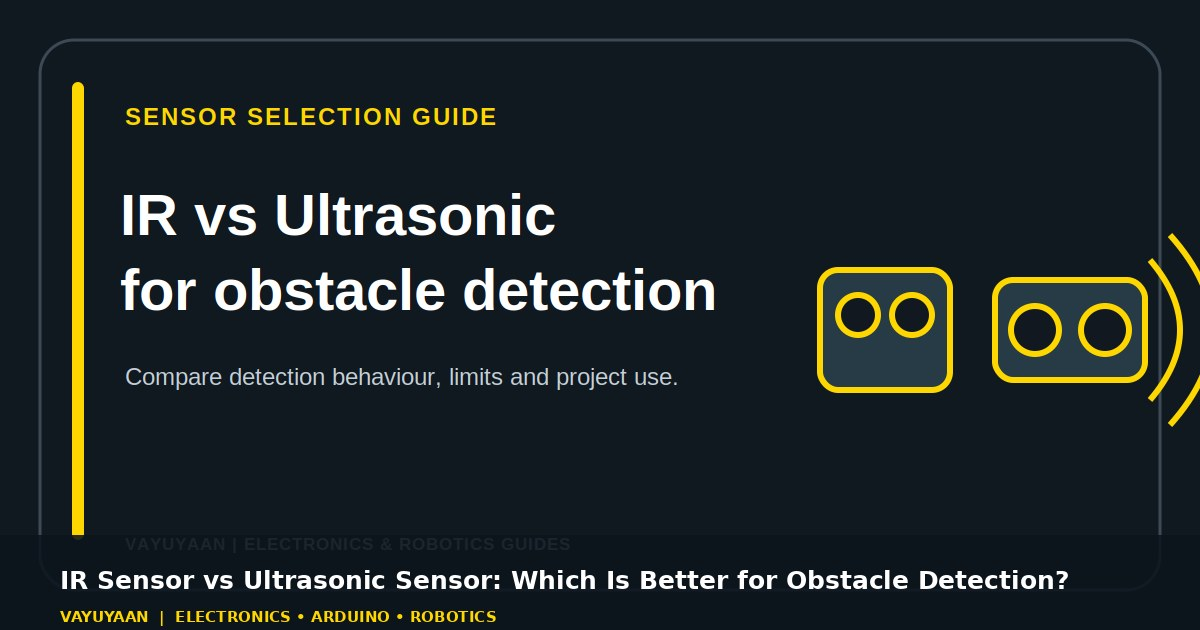
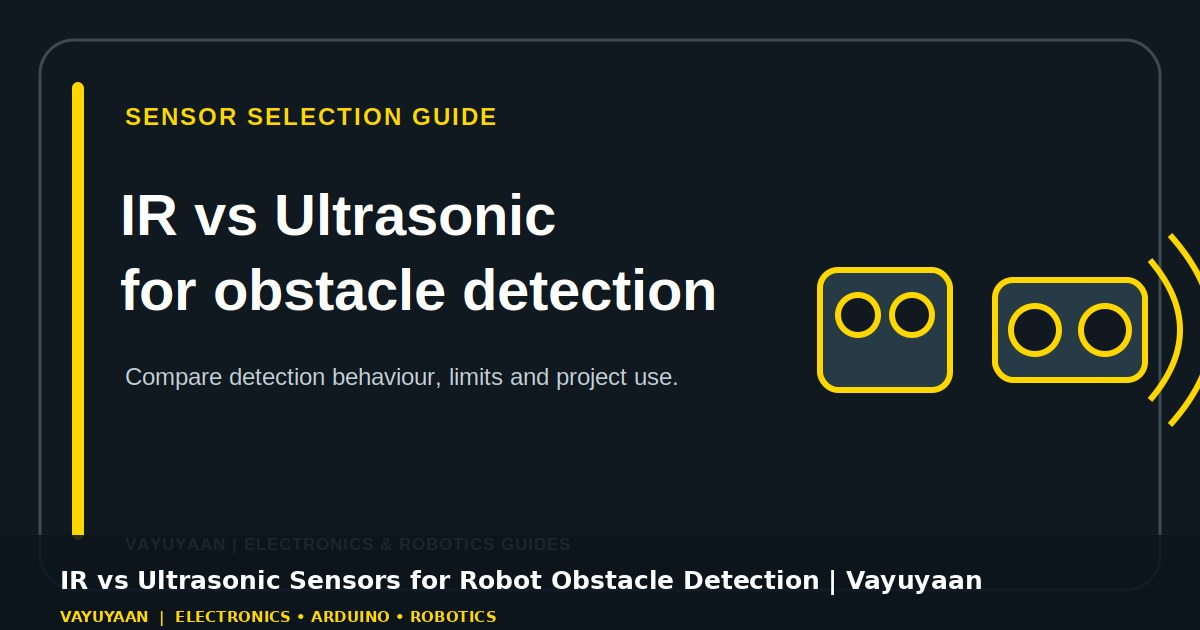
Publish Arduino Uno sensor interfacing guide (#56)
* Add Arduino Uno sensor interfacing practical guide

* Add original Arduino sensor wiring diagrams

* Add original Arduino sensor wiring diagrams

* Link sensor interfacing guide from Arduino hub

* Add Arduino sensor interfacing page to sitemap

* Add social metadata and accessible mobile menu handling

* Generate dedicated social card for Arduino sensor guide

* Run social card generator for new article branch

* Trigger dedicated social preview generation

* Generate raster social preview cards for all pages

---------

Changed region(s): [[0.0617, 0.9048, 0.8942, 0.9349]]

diff --git a/arduino-uno-sensor-interfacing/index.html b/arduino-uno-sensor-interfacing/index.html
@@ -1,0 +1,158 @@
+<!doctype html>
+<html lang="en-IN">
+<head>
+<meta charset="utf-8"><meta name="viewport" content="width=device-width,initial-scale=1">
+<title>Arduino Uno Sensor Interfacing: Pins, Wiring &amp; Code | Vayuyaan</title>
+<meta name="description" content="Learn Arduino Uno sensor interfacing with analog and digital pins, PWM, LDR, IR and HC-SR04 wiring, example code and practical troubleshooting.">
+<link rel="canonical" href="https://vayuyaan13.github.io/vayuyaan/arduino-uno-sensor-interfacing/">
+<meta name="robots" content="index,follow,max-image-preview:large,max-snippet:-1,max-video-preview:-1">
+<meta property="og:locale" content="en_IN"><meta property="og:site_name" content="Vayuyaan Electronics &amp; Robotics Guides"><meta property="og:type" content="article">
+<meta property="og:title" content="Arduino Uno Sensor Interfacing: Pins, Wiring &amp; Code"><meta property="og:description" content="Connect analog and digital sensors to Arduino Uno. Understand pin selection, voltage limits, PWM, wiring examples and troubleshooting.">
+<meta property="og:url" content="https://vayuyaan13.github.io/vayuyaan/arduino-uno-sensor-interfacing/"><meta property="og:image" content="https://vayuyaan13.github.io/vayuyaan/assets/social/arduino-uno-sensor-interfacing.jpg">
+<meta property="og:image:type" content="image/jpeg">
+<meta property="og:image:width" content="1200">
+<meta property="og:image:height" content="630">
+<meta property="og:image:alt" content="Arduino Uno Sensor Interfacing: Pins, Wiring &amp; Code | Vayuyaan">
+<meta name="twitter:card" content="summary_large_image"><meta name="twitter:title" content="Arduino Uno Sensor Interfacing: Pins, Wiring &amp; Code"><meta name="twitter:description" content="Practical Arduino Uno sensor wiring, pin selection, example code and troubleshooting."><meta name="twitter:image" content="https://vayuyaan13.github.io/vayuyaan/assets/social/arduino-uno-sensor-interfacing.jpg">
+<link rel="stylesheet" href="../style.css?v=20261120-sensor-interface">
+<style>
+.article-shell{max-width:1160px;margin:auto;padding:28px 28px 80px}.crumb{font-size:.82rem;color:#74808a;margin:8px 0 32px}.crumb a{color:#66727c}.article-head{max-width:900px;margin:0 auto 34px;border-bottom:1px solid #e4e8eb;padding-bottom:28px}.eyebrow{font-size:.72rem;letter-spacing:.14em;font-weight:800;color:#8a6800}.article-head h1{font-size:clamp(2.35rem,5vw,4rem);line-height:1.06;letter-spacing:-.05em;margin:14px 0 18px}.deck{font-size:1.15rem;line-height:1.75;color:#56636e;max-width:820px}.byline{font-size:.82rem;color:#7c8790;margin-top:18px}.layout{display:grid;grid-template-columns:205px minmax(0,760px);gap:48px;justify-content:center}.toc{position:sticky;top:100px;align-self:start;border-left:2px solid #e2e7ea;padding:4px 0 4px 16px;display:flex;flex-direction:column;gap:10px}.toc strong{font-size:.68rem;letter-spacing:.12em;color:#818b94}.toc a{font-size:.82rem;color:#68747e;text-decoration:none;line-height:1.4}.body{min-width:0;font-size:1.02rem;line-height:1.82;color:#303b44}.body p{margin:0 0 19px}.body a{color:#765800;text-underline-offset:3px}.body h2{font-size:clamp(1.55rem,3vw,2.1rem);line-height:1.2;letter-spacing:-.03em;margin:44px 0 14px;scroll-margin-top:100px}.body h3{font-size:1.15rem;margin:26px 0 8px}.body ul,.body ol{padding-left:24px;margin:0 0 22px}.body li{margin:0 0 8px}.lead{font-size:1.13rem;color:#202b33}.note{background:#fff8e2;border-left:4px solid #ffd23f;padding:18px 21px;margin:24px 0;border-radius:0 8px 8px 0}.figure{margin:25px 0 30px}.figure img{display:block;width:100%;height:auto;border:1px solid #e1e6ea;border-radius:12px;background:#f8fafb}.figure figcaption{font-size:.8rem;color:#77828b;text-align:center;margin-top:8px}.table-wrap{overflow-x:auto;margin:20px 0 26px}.body table{border-collapse:collapse;width:100%;min-width:570px;font-size:.87rem;line-height:1.55}.body th,.body td{border:1px solid #e1e6e9;padding:11px;text-align:left;vertical-align:top}.body th{background:#f3f6f7}.body pre{overflow-x:auto;white-space:pre;padding:17px;background:#111a22;color:#f5f7f8;border-radius:9px;font: .84rem/1.65 ui-monospace,Consolas,monospace;margin:15px 0 23px}.body code{font-family:ui-monospace,Consolas,monospace;font-size:.9em}.body pre code{font-size:1em}.cta{background:#111820;color:#fff;padding:25px;border-radius:11px;margin:42px 0 26px}.cta h2{color:#fff;margin:7px 0 10px}.cta p{color:#c8d0d5}.cta a{display:inline-block;background:#ffd23f;color:#111820;padding:11px 15px;border-radius:6px;font-weight:800;text-decoration:none}.sources{border-top:1px solid #e3e8eb;padding-top:18px;margin-top:34px;font-size:.82rem;color:#66727c}
+@media(max-width:820px){.layout{grid-template-columns:1fr;gap:22px}.toc{position:static;border:1px solid #e2e7ea;border-radius:9px;padding:15px;display:grid;grid-template-columns:repeat(2,minmax(0,1fr))}.toc strong{grid-column:1/-1}}
+@media(max-width:560px){.article-shell{padding:20px 19px 58px}.article-head h1{font-size:2.35rem}.deck{font-size:1.02rem}.body{font-size:.98rem}.body pre{font-size:.76rem}.body table{font-size:.78rem}.body th,.body td{padding:8px}}
+</style>
+<script type="application/ld+json">
+{"@context":"https://schema.org","@graph":[{"@type":"BlogPosting","@id":"https://vayuyaan13.github.io/vayuyaan/arduino-uno-sensor-interfacing/#article","mainEntityOfPage":{"@type":"WebPage","@id":"https://vayuyaan13.github.io/vayuyaan/arduino-uno-sensor-interfacing/"},"headline":"Arduino Uno Sensor Interfacing: Analog, Digital and PWM Pins Explained","description":"A practical guide to choosing Arduino Uno pins, connecting analog and digital sensors, using PWM correctly and troubleshooting sensor circuits.","image":"https://vayuyaan13.github.io/vayuyaan/assets/arduino-uno-sensor-interfacing-overview.svg","datePublished":"2026-11-20","dateModified":"2026-11-20","author":{"@type":"Organization","name":"Vayuyaan Editorial Team"},"publisher":{"@type":"Organization","name":"Vayuyaan","logo":{"@type":"ImageObject","url":"https://vayuyaan13.github.io/vayuyaan/assets/vayuyaan-logo.png"}},"inLanguage":"en-IN","articleSection":["Arduino","Sensors","Electronics"],"keywords":["Arduino Uno sensor interfacing","Arduino analog pins","Arduino digital pins","Arduino PWM pins","connect sensor to Arduino Uno","Arduino LDR sensor","Arduino IR sensor","HC-SR04 Arduino wiring"]},{"@type":"BreadcrumbList","itemListElement":[{"@type":"ListItem","position":1,"name":"Home","item":"https://vayuyaan13.github.io/vayuyaan/"},{"@type":"ListItem","position":2,"name":"Arduino Guides","item":"https://vayuyaan13.github.io/vayuyaan/arduino/"},{"@type":"ListItem","position":3,"name":"Arduino Uno Sensor Interfacing","item":"https://vayuyaan13.github.io/vayuyaan/arduino-uno-sensor-interfacing/"}]}]}
+</script>
+</head>
+<body>
+<a class="skip-link" href="#main-content">Skip to main content</a>
+<header class="header"><nav class="nav"><a class="brand" href="../" aria-label="Vayuyaan learning hub home"><img src="../assets/vayuyaan-logo.png" alt="Vayuyaan logo" width="394" height="109"></a><div class="navlinks" id="primary-navigation"><a href="../">Home</a><a href="../arduino/">Arduino Guides</a><a href="../sensors/">Sensor Guides</a><a href="../robotics/">Robotics</a><a href="https://vayuyaan.com/blog/">Electronics Blog</a><a href="https://vayuyaan.com/">Vayuyaan.com ↗</a></div><button class="menu" type="button" aria-label="Open navigation menu" aria-expanded="false" aria-controls="primary-navigation">☰</button></nav></header>
+<main id="main-content" class="article-shell">
+<div class="crumb"><a href="../">Home</a> / <a href="../arduino/">Arduino</a> / Sensor interfacing</div>
+<header class="article-head"><span class="eyebrow">ARDUINO · PRACTICAL WIRING GUIDE</span><h1>Arduino Uno R3 Sensor Interfacing: Analog, Digital and PWM Pins Explained</h1><p class="deck">Choose the right Arduino Uno pin, connect sensor modules safely, read their outputs and diagnose common wiring mistakes with practical LDR, IR and HC-SR04 examples.</p><p class="byline">By Vayuyaan Editorial Team · 20 November 2026 · Practical reference guide</p></header>
+<div class="layout">
+<nav class="toc" aria-label="Table of contents"><strong>IN THIS GUIDE</strong><a href="#before">Before connecting</a><a href="#pins">Understand the pins</a><a href="#wiring">Wiring principles</a><a href="#ldr">LDR example</a><a href="#ir">IR module example</a><a href="#ultrasonic">HC-SR04 example</a><a href="#pwm">PWM explained</a><a href="#debug">Troubleshooting</a><a href="#faq">FAQs</a></nav>
+<article class="body">
+<p class="lead">Connecting a sensor to an Arduino Uno is not just a matter of matching wire colours. First identify what the module outputs—an analogue voltage, a digital HIGH/LOW signal, or a timed pulse. Then choose a compatible pin and check the module's supply-voltage requirements.</p>
+<p>If you are new to the board, start with the <a href="https://vayuyaan.com/blog/arduino-uno-r3-complete-guide-for-beginners/">Arduino Uno R3 pinout and beginner's guide</a> for the board layout and basic setup. This page focuses on the next step: connecting sensors and interpreting their signals correctly.</p>
+<figure class="figure"><img src="../assets/arduino-uno-sensor-interfacing-overview.svg" width="1200" height="675" alt="Arduino Uno sensor interfacing overview showing an analogue LDR input on A0, a digital IR output on D2 and HC-SR04 trigger and echo on D9 and D10"><figcaption>Three common signal paths: analogue input, digital input and two digital pins for ultrasonic timing.</figcaption></figure>
+<h2 id="before">Before connecting a sensor</h2>
+<p>Read the label or datasheet for the exact sensor board. Modules that look similar can use different pin orders, supply ranges and output circuits. Check these points before applying power:</p>
+<ul><li><strong>Supply voltage:</strong> confirm whether the module accepts 5 V, 3.3 V or a wider range. Never assume every sensor board is 5 V tolerant.</li><li><strong>Output type:</strong> determine whether the signal is analogue, digital, open-collector/open-drain or a pulse whose duration carries information.</li><li><strong>Logic level:</strong> check the maximum voltage that can appear on an Uno input. A 3.3 V-only device may need level shifting for signals in both directions; a 5 V Uno output can damage a non-5-V-tolerant input.</li><li><strong>Current:</strong> power the sensor from a suitable supply. Do not drive motors, relays or high-current loads directly from an I/O pin.</li><li><strong>Ground:</strong> when using separate supplies, connect grounds together unless the circuit is intentionally isolated.</li></ul>
+<div class="note"><strong>Important:</strong> The classic Arduino Uno R3 uses 5 V logic and a 10-bit ADC. These details do not apply automatically to every Arduino-compatible board, especially 3.3 V boards.</div>
+<h2 id="pins">Arduino Uno pins: which one should you use?</h2>
+<p>The classic Uno R3 has 14 digital I/O pins (D0–D13), six analogue input pins (A0–A5) and six PWM-capable digital pins (3, 5, 6, 9, 10 and 11). Analogue pins can also be used as digital I/O when needed.</p>
+<div class="table-wrap"><table><thead><tr><th>Pin group</th><th>What it does</th><th>Typical sensor use</th><th>Key point</th></tr></thead><tbody><tr><td>A0–A5</td><td>Measures analogue voltage through the ADC</td><td>LDR voltage divider, analogue gas or light module</td><td><code>analogRead()</code> returns 0–1023 at the default 10-bit resolution</td></tr><tr><td>D0–D13</td><td>Reads or outputs digital HIGH/LOW states</td><td>IR obstacle module's digital output</td><td>D0/D1 are also used for serial communication; avoid them when using USB serial unless planned</td></tr><tr><td>D3, D5, D6, D9, D10, D11</td><td>Hardware PWM output using <code>analogWrite()</code></td><td>LED brightness or compatible driver speed input</td><td>PWM is a rapidly switched digital signal, not a true analogue voltage</td></tr><tr><td>5V, 3.3V, GND</td><td>Power and reference connections</td><td>Sensor module supply</td><td>Check the module's rated supply and current before connecting</td></tr></tbody></table></div>
+<p>On a standard Uno R3, the analogue-to-digital converter maps the selected input voltage to a number from 0 to 1023. With the default 5 V reference, a reading of about 512 represents roughly half the reference voltage (about 2.5 V). It is not a direct measurement of lux, temperature or another physical unit; calibration and the sensor's circuit determine how to interpret it.</p>
+<h2 id="wiring">A safe, repeatable sensor-wiring method</h2>
+<ol><li>Disconnect USB and external power before changing connections.</li><li>Find the exact module pin labels or datasheet. Identify VCC, GND and signal pins.</li><li>Connect the module to a supply voltage it supports. Connect GND to Arduino GND.</li><li>Connect the signal to a suitable input pin. Keep signal wires short while testing.</li><li>Power the board and test one sensor with a small sketch before adding other components.</li><li>Open Serial Monitor at the baud rate used by the sketch and compare readings while changing the sensor input.</li></ol>
+<figure class="figure"><img src="../assets/arduino-uno-sensor-wiring-map.svg" width="1200" height="660" alt="Sensor wiring map for Arduino Uno showing shared ground and separate analog, digital and trigger echo signal connections"><figcaption>Conceptual wiring map. Follow the pin labels on your exact module; connector order varies by manufacturer.</figcaption></figure>
+<h2 id="ldr">Example 1: read an LDR using analogue input A0</h2>
+<p>A bare light-dependent resistor (LDR) changes resistance with light. The Arduino cannot measure resistance directly, so pair the LDR with a fixed resistor to make a voltage divider. In this example, connect 5 V to the LDR, the junction to A0, and a 10 kΩ resistor from the junction to GND. The voltage at A0 rises as the LDR becomes brighter because its resistance falls.</p>
+<div class="table-wrap"><table><thead><tr><th>Connection</th><th>Arduino / component</th></tr></thead><tbody><tr><td>LDR first leg</td><td>5V</td></tr><tr><td>LDR second leg and fixed resistor first leg</td><td>A0 junction</td></tr><tr><td>10 kΩ resistor second leg</td><td>GND</td></tr></tbody></table></div>
+<pre><code>const int ldrPin = A0;
+
+void setup() {
+  Serial.begin(9600);
+}
+
+void loop() {
+  int reading = analogRead(ldrPin);
+  float voltage = reading * (5.0 / 1023.0);
+
+  Serial.print("ADC: ");
+  Serial.print(reading);
+  Serial.print(" | Approx. voltage: ");
+  Serial.println(voltage, 2);
+
+  delay(250);
+}</code></pre>
+<p>Open Serial Monitor, note the reading in bright and dim conditions, and use those measured values to choose a threshold for your project. The voltage calculation assumes the default 5 V analogue reference; actual board voltage and ADC characteristics introduce small differences. The ADC number is not a lux value.</p>
+<p>For the sensor's resistance behaviour and other applications, see the main-site <a href="https://vayuyaan.com/blog/what-is-ldr-sensor/">LDR sensor working principle and applications</a> guide. Keep the voltage-divider circuit and project calibration in this practical article.</p>
+<h2 id="ir">Example 2: read a digital IR obstacle module</h2>
+<p>Many reflective IR obstacle modules include an onboard comparator and a small potentiometer. Their digital output changes state when the reflected infrared signal crosses the module's threshold. The active state is not universal: some boards output LOW when an obstacle is detected, while others behave differently. Check the module documentation or observe its indicator LED and serial output.</p>
+<div class="table-wrap"><table><thead><tr><th>Module pin</th><th>Arduino Uno</th></tr></thead><tbody><tr><td>VCC</td><td>Supply accepted by the module (verify its rating)</td></tr><tr><td>GND</td><td>GND</td></tr><tr><td>DO / OUT</td><td>D2</td></tr></tbody></table></div>
+<pre><code>const int irPin = 2;
+
+void setup() {
+  pinMode(irPin, INPUT);
+  Serial.begin(9600);
+}
+
+void loop() {
+  int state = digitalRead(irPin);
+
+  Serial.print("IR output: ");
+  Serial.println(state == HIGH ? "HIGH" : "LOW");
+
+  delay(100);
+}</code></pre>
+<p>This sketch reports the electrical output only; it deliberately does not label HIGH or LOW as “obstacle detected” because module polarity varies. Once you confirm your board's active state, add that logic to your project. Adjust the potentiometer in small steps and test with the actual target surface and distance.</p>
+<h2 id="ultrasonic">Example 3: connect an HC-SR04 ultrasonic sensor</h2>
+<p>The HC-SR04 uses two digital signal pins. The Arduino sends a short trigger pulse; the sensor returns an echo pulse whose duration represents the sound's round-trip travel time. The commonly used conversion is duration × 0.0343 ÷ 2 for an approximate distance in centimetres at around room temperature.</p>
+<div class="table-wrap"><table><thead><tr><th>HC-SR04 pin</th><th>Arduino Uno</th></tr></thead><tbody><tr><td>VCC</td><td>5V (for a standard 5 V HC-SR04 module)</td></tr><tr><td>GND</td><td>GND</td></tr><tr><td>TRIG</td><td>D9</td></tr><tr><td>ECHO</td><td>D10</td></tr></tbody></table></div>
+<pre><code>const byte trigPin = 9;
+const byte echoPin = 10;
+
+void setup() {
+  pinMode(trigPin, OUTPUT);
+  pinMode(echoPin, INPUT);
+  Serial.begin(9600);
+}
+
+void loop() {
+  digitalWrite(trigPin, LOW);
+  delayMicroseconds(2);
+  digitalWrite(trigPin, HIGH);
+  delayMicroseconds(10);
+  digitalWrite(trigPin, LOW);
+
+  // Timeout prevents waiting indefinitely (30 ms ≈ 5 m round trip).
+  unsigned long duration = pulseIn(echoPin, HIGH, 30000UL);
+
+  if (duration == 0) {
+    Serial.println("No echo: check target, wiring and range");
+  } else {
+    float distanceCm = duration * 0.0343 / 2.0;
+    Serial.print("Distance: ");
+    Serial.print(distanceCm, 1);
+    Serial.println(" cm");
+  }
+
+  delay(100);
+}</code></pre>
+<p>The timeout is a guard against a missing echo, not a promise that the sensor measures accurately to five metres. The usable range depends on the module, target size and angle, surface, surroundings and environmental conditions. Avoid treating a zero reading as a real distance. For pinout details and common faults, use the dedicated <a href="../hc-sr04-ultrasonic-sensor-guide/">HC-SR04 wiring and Arduino code guide</a> and <a href="../hc-sr04-wrong-readings-arduino/">HC-SR04 troubleshooting guide</a>.</p>
+<h2 id="pwm">PWM pins: what they can and cannot do</h2>
+<p>On the classic Uno R3, <code>analogWrite()</code> on pins 3, 5, 6, 9, 10 or 11 produces pulse-width modulation (PWM). The output switches between LOW and HIGH; changing the duty cycle changes the average energy delivered to a suitable load. It does not create a steady, adjustable analogue voltage from the pin.</p>
+<pre><code>const byte ledPin = 9;
+
+void setup() {
+  pinMode(ledPin, OUTPUT);
+}
+
+void loop() {
+  for (int level = 0; level <= 255; level++) {
+    analogWrite(ledPin, level);
+    delay(8);
+  }
+
+  for (int level = 255; level >= 0; level--) {
+    analogWrite(ledPin, level);
+    delay(8);
+  }
+}</code></pre>
+<p>Use a suitable series resistor with a bare LED. For motors, use a motor driver rated for the motor's voltage and current; never connect a motor directly to an Arduino I/O pin. PWM pin availability and timer behaviour can differ on other boards, and some libraries use hardware timers that affect PWM on particular pins.</p>
+<h2 id="debug">Sensor not working? Check these common causes</h2>
+<div class="table-wrap"><table><thead><tr><th>Symptom</th><th>What to check</th></tr></thead><tbody><tr><td>Always reads 0 or 1023</td><td>Check the analogue divider path, signal pin, common ground and whether the input is floating or shorted to a rail.</td></tr><tr><td>IR output seems inverted</td><td>Confirm the module's active-LOW or active-HIGH behaviour; do not assume polarity.</td></tr><tr><td>HC-SR04 returns zero</td><td>Check TRIG/ECHO pin assignments, 5 V supply, ground, target angle and timeout. Test a large flat target at a sensible distance.</td></tr><tr><td>Values jump around</td><td>Inspect loose jumper wires, supply stability, electrical noise and sensor-specific filtering or averaging needs.</td></tr><tr><td>Board resets when a motor starts</td><td>Use a properly rated motor driver and suitable motor supply; check wiring and shared ground. Do not power the motor from an I/O pin.</td></tr><tr><td>Sensor gets hot or stops responding</td><td>Disconnect power immediately and recheck polarity, voltage rating and wiring against the module datasheet.</td></tr></tbody></table></div>
+<h2 id="faq">Frequently asked questions</h2>
+<h3>Can I connect multiple sensors to one Arduino Uno?</h3><p>Yes, if enough suitable pins remain and the combined current draw stays within the board and supply limits. Check pin conflicts, libraries and timing requirements before combining sketches.</p>
+<h3>Can I use an analogue sensor on a digital pin?</h3><p>Not if you need its changing analogue voltage. Use A0–A5 with <code>analogRead()</code>. Some modules also provide a separate digital threshold output that can be read with <code>digitalRead()</code>.</p>
+<h3>Are all Arduino Uno pins 5 V tolerant?</h3><p>The classic Uno R3 uses 5 V logic, but this does not make every attached sensor safe at 5 V. Follow the sensor's supply and input/output voltage specifications. Other Uno-branded or compatible boards may use different logic levels.</p>
+<h3>Is PWM the same as analogue output?</h3><p>No. PWM is a switched digital waveform. A load or filter may respond to its average, but the pin itself is not producing a true continuously variable analogue voltage.</p>
+<div class="cta"><span class="eyebrow">CONTINUE LEARNING</span><h2>Choose the right board, sensor and components</h2><p>Use the Arduino Uno overview for board fundamentals, then return here when you are ready to wire and test a sensor.</p><a href="https://vayuyaan.com/blog/arduino-uno-r3-complete-guide-for-beginners/">Read the Arduino Uno R3 beginner's guide ↗</a></div>
+<p class="sources"><strong>Technical references:</strong> <a href="https://docs.arduino.cc/hardware/uno-rev3/">Arduino Uno Rev3 hardware documentation</a>; <a href="https://docs.arduino.cc/language-reference/en/functions/analog-io/analogRead/">Arduino analogRead() reference</a>; <a href="https://docs.arduino.cc/language-reference/en/functions/analog-io/analogWrite/">Arduino analogWrite() reference</a>; <a href="https://docs.arduino.cc/language-reference/en/functions/advanced-io/pulseIn/">Arduino pulseIn() reference</a>. Confirm module-specific pinouts and electrical ratings using the datasheet supplied by its manufacturer.</p>
+</article></div></main>
+<footer class="site-footer"><div class="footer-about"><a class="footer-logo" href="../"><img src="../assets/vayuyaan-logo.png" alt="Vayuyaan logo" width="394" height="109"></a><p>Practical electronics, Arduino, ESP32 and robotics learning resources.</p><p>Email: <a href="mailto:support@vayuyaan.com">support@vayuyaan.com</a></p></div><div class="footer-column"><h2>Explore</h2><a href="../arduino/">Arduino guides</a><a href="../sensors/">Sensor guides</a><a href="../robotics/">Robotics projects</a><a href="../what-is-esp32/">ESP32 guides</a></div><div class="footer-column"><h2>Vayuyaan</h2><a href="https://vayuyaan.com/blog/">Electronics blog</a><a href="https://vayuyaan.com/shop/">Shop components</a><a href="https://vayuyaan.com/">Main website</a></div></footer>
+<div class="footer-bottom"><span>© 2026 Vayuyaan. All rights reserved.</span><span>Electronics • Robotics • DIY</span></div>
+<script>(()=>{const b=document.querySelector('.menu'),n=document.querySelector('.navlinks');if(b&&n){const close=()=>{n.classList.remove('mobile-open');b.setAttribute('aria-expanded','false');b.setAttribute('aria-label','Open navigation menu')};b.addEventListener('click',()=>{const o=n.classList.toggle('mobile-open');b.setAttribute('aria-expanded',String(o));b.setAttribute('aria-label',o?'Close navigation menu':'Open navigation menu')});n.querySelectorAll('a').forEach(a=>a.addEventListener('click',close));document.addEventListener('keydown',e=>{if(e.key==='Escape'&&n.classList.contains('mobile-open')){close();b.focus()}})}})();</script>
+</body></html>

diff --git a/arduino/index.html b/arduino/index.html
@@ -22,6 +22,10 @@
 
 
 
+
+
+
+
 <meta name="twitter:card" content="summary_large_image"><meta name="twitter:title" content="Arduino Uno Guides & Beginner Projects | Vayuyaan"><meta name="twitter:description" content="Learn Arduino Uno fundamentals, sensors, motor drivers and beginner robotics with practical step-by-step guides."><meta name="twitter:image" content="https://vayuyaan13.github.io/vayuyaan/assets/social/arduino.jpg"><meta property="og:url" content="https://vayuyaan13.github.io/vayuyaan/arduino/"><link rel="stylesheet" href="../style.css?v=20261118-mobile2"><style>.arduino-visual{max-width:1160px;margin:0 auto;padding:0 28px 12px}.arduino-visual img{display:block;width:100%;height:auto;border-radius:18px;border:1px solid #e0e6eb}.roadmap-visual{margin:0 0 28px}.roadmap-visual img{display:block;width:100%;height:auto;border-radius:16px;border:1px solid #e0e6eb}.guide .guide-tag{display:inline-block;font-size:.7rem;letter-spacing:.08em;text-transform:uppercase;font-weight:800;color:#8b6700;margin-bottom:8px}.guide-grid .guide{height:100%}.path-note{margin:20px 0 0;padding:18px 20px;border-radius:10px;background:#fff8df;border-left:4px solid #ffd23f;color:#3b4147;line-height:1.7}.path-note a{font-weight:700}.section .section-top{scroll-margin-top:90px}@media(max-width:600px){.arduino-visual{padding:0 18px 8px}.roadmap-visual{margin-bottom:20px}}</style><script type="application/ld+json">
 {
   "@context": "https://schema.org",
@@ -78,7 +82,7 @@
 <a class="brand" href="../" aria-label="Vayuyaan learning hub home"><img src="../assets/vayuyaan-logo.png" alt="Vayuyaan logo" width="394" height="109"></a>
 <div class="navlinks" id="primary-navigation"><a href="../">Home</a><a href="../write-for-us/" >Write for Us</a><a href="../arduino/" aria-current="page">Arduino Guides</a><a href="../sensors/" >Sensor Guides</a><a href="../robotics/" >Robotics Projects</a><a href="../motor-drivers/" >Motor Drivers</a><a href="../what-is-esp32/" >ESP32</a><a href="https://vayuyaan.com/blog/">Electronics Blog</a><a href="https://vayuyaan.com/shop/">Shop Components</a><a class="nav-cta" href="https://vayuyaan.com/">Vayuyaan.com ↗</a></div>
 <button class="menu" type="button" aria-label="Open navigation menu" aria-expanded="false" aria-controls="primary-navigation">☰</button>
-</nav></header><main id="main-content"><section class="hero"><div class="hero-inner"><div class="hero-copy"><div class="pill"><span></span> Arduino Learning Hub</div><h1>Learn Arduino.<br><em>Build real projects.</em></h1><p>Start with the Arduino Uno, then learn sensors, motor drivers and practical robotics step by step.</p><div class="hero-actions"><a class="primary" href="https://vayuyaan.com/blog/arduino-uno-r3-complete-guide-for-beginners/">Start with Arduino Uno →</a><a class="secondary" href="#guides">Explore guides</a></div></div></div></section><section class="arduino-visual" aria-label="Arduino beginner project illustration"><img src="../assets/arduino-learning-workspace.svg" alt="Illustration of an Arduino development board, breadboard, wires and electronic components for beginner projects" width="1200" height="650" fetchpriority="high" decoding="async"></section><section class="section"><div class="section-top"><div><span class="kicker">A PRACTICAL LEARNING PATH</span><h2>Learn in this order</h2></div><p>Understand power and pins before adding components. Test one part at a time to make debugging easier.</p></div><figure class="roadmap-visual"><img src="../assets/arduino-learning-roadmap.svg" alt="Five-step Arduino learning path: board basics, reading sensors, controlling motors, building a robot and troubleshooting" width="1200" height="340" loading="lazy" decoding="async"><figcaption class="caption">Follow the steps in order, and test each part before combining the full project.</figcaption></figure><div class="guide-grid"><article class="guide"><span>STEP 1 · BOARD BASICS</span><h3>Know the Arduino Uno</h3><p>Identify digital pins, analog inputs, power pins and USB connection before wiring a project.</p><strong><a href="https://vayuyaan.com/blog/arduino-uno-r3-complete-guide-for-beginners/">Read the Arduino Uno R3 guide →</a></strong><p><strong><a href="https://youtu.be/ljO6YGKqIHk">Watch the Arduino IDE setup video →</a></strong></p></article><article class="guide"><span>STEP 2 · SENSORS</span><h3>Read a sensor output</h3><p>Check the module voltage, pin labels and whether its output is digital or analog. Keep the wiring simple while testing.</p><strong><a href="../hc-sr04-ultrasonic-sensor-guide/">Follow the HC-SR04 pinout, wiring and Arduino code guide →</a></strong><p><a href="../hc-sr04-wrong-readings-arduino/">Diagnose inaccurate or unstable HC-SR04 readings with Arduino</a></p><p><a href="../ir-sensor-vs-ultrasonic-sensor/">Compare IR and ultrasonic sensors before choosing a module</a><a href="../ir-vs-ultrasonic-obstacle-detection/">Test IR and ultrasonic obstacle detection on a moving robot</a></p></article><article class="guide"><span>STEP 3 · MOTOR CONTROL</span><h3>Drive a DC motor safely</h3><p>Use a motor driver such as the L293D rather than powering a motor directly from an Arduino I/O pin.</p><strong><a href="https://vayuyaan.com/blog/control-dc-motors-with-arduino-uno-r3-and-l293d/">Learn L293D motor control →</a></strong></article><article class="guide"><span>STEP 4 · MOTOR DRIVER GUIDE</span><h3>Understand motor drivers</h3><p>Compare L293D and L298N drivers, follow a wiring checklist, and learn direction and PWM speed control before building a robot.</p><strong><a href="../motor-drivers/">Read the Arduino motor driver guide →</a></strong></article><article class="guide"><span>STEP 5 · ROBOTICS</span><h3>Combine sensing and motion</h3><p>Test sensor readings and motor direction separately, then combine them into project logic.</p><strong><a href="https://vayuyaan.com/blog/line-follower-robot-using-arduino/">Build a line follower robot →</a></strong><p><strong><a href="../arduino-line-follower-ir-sensor-calibration/">Calibrate its IR sensors →</a></strong></p></article></div></section><section id="guides" class="section"><div class="section-top"><div><span class="kicker">TROUBLESHOOTING</span><h2>Quick checks when a project fails</h2></div><p>Before rewriting code, inspect the common causes below.</p></div><div class="guide-grid"><article class="guide"><h3>Board not detected</h3><p>Try a USB data cable, select the correct board and port in the IDE, and install the required driver if the board needs one.</p></article><article class="guide"><h3>Sensor gives strange readings</h3><p>Confirm VCC and GND, use the pinout for your exact module, check signal pin assignments and test with a short example sketch.</p></article><article class="guide"><h3>Motor does not turn</h3><p>Check the motor-driver supply, common ground, enable pin and wiring. Motors often need a separate power source sized for their current.</p></article></div></section><section class="section"><div class="section-top"><div><span class="kicker">KEEP BUILDING</span><h2>Try a complete beginner project</h2></div><p>Use what you have learned in a practical build, then return to the relevant guide when you need to debug a subsystem.</p></div><div class="guide-grid"><article class="guide"><span>PROJECT · AUTOMATION</span><h3>Smart Dustbin with Arduino</h3><p>Combine an ultrasonic sensor with a motorized mechanism. Test distance readings before adding movement.</p><strong><a href="https://vayuyaan.com/blog/smart-dustbin-using-arduino-and-ultrasonic-sensor/">Build the smart dustbin →</a></strong></article><article class="guide"><span>PROJECT · ROBOTICS</span><h3>Line-Follower Robot</h3><p>Learn how sensors and motor control work together to keep a robot on a track.</p><strong><a href="https://vayuyaan.com/blog/line-follower-robot-using-arduino/">Follow the robot tutorial →</a></strong></article><article class="guide"><span>PROJECT · LIGHT AUTOMATION</span><h3>Automatic Street Light with Arduino</h3><p>Build an LDR voltage-divider circuit, read ambient light on A0 and calibrate the switching threshold for a low-voltage LED model.</p><strong><a href="../arduino-ldr-automatic-street-light/">Follow the LDR street-light circuit and code →</a></strong></article><article class="guide"><span>REFERENCE · SENSORS</span><h3>IR Sensor Calibration</h3><p>Read digital and analog outputs, choose a threshold from real readings and troubleshoot line tracking.</p><strong><a href="../arduino-line-follower-ir-sensor-calibration/">Read the calibration guide →</a></strong></article></div></section><section class="cta"><div><span class="kicker">NEXT STEP</span><h2>Need Arduino components?</h2><p>Find boards, sensors, motor drivers and robotics parts at Vayuyaan.</p></div><div class="cta-actions"><a class="primary light" href="https://vayuyaan.com/shop/">Shop Arduino components ↗</a></div></section></main><footer class="site-footer">
+</nav></header><main id="main-content"><section class="hero"><div class="hero-inner"><div class="hero-copy"><div class="pill"><span></span> Arduino Learning Hub</div><h1>Learn Arduino.<br><em>Build real projects.</em></h1><p>Start with the Arduino Uno, then learn sensors, motor drivers and practical robotics step by step.</p><div class="hero-actions"><a class="primary" href="https://vayuyaan.com/blog/arduino-uno-r3-complete-guide-for-beginners/">Start with Arduino Uno →</a><a class="secondary" href="#guides">Explore guides</a></div></div></div></section><section class="arduino-visual" aria-label="Arduino beginner project illustration"><img src="../assets/arduino-learning-workspace.svg" alt="Illustration of an Arduino development board, breadboard, wires and electronic components for beginner projects" width="1200" height="650" fetchpriority="high" decoding="async"></section><section class="section"><div class="section-top"><div><span class="kicker">A PRACTICAL LEARNING PATH</span><h2>Learn in this order</h2></div><p>Understand power and pins before adding components. Test one part at a time to make debugging easier.</p></div><figure class="roadmap-visual"><img src="../assets/arduino-learning-roadmap.svg" alt="Five-step Arduino learning path: board basics, reading sensors, controlling motors, building a robot and troubleshooting" width="1200" height="340" loading="lazy" decoding="async"><figcaption class="caption">Follow the steps in order, and test each part before combining the full project.</figcaption></figure><div class="guide-grid"><article class="guide"><span>STEP 1 · BOARD BASICS</span><h3>Know the Arduino Uno</h3><p>Identify digital pins, analog inputs, power pins and USB connection before wiring a project.</p><strong><a href="https://vayuyaan.com/blog/arduino-uno-r3-complete-guide-for-beginners/">Read the Arduino Uno R3 guide →</a></strong><p><strong><a href="https://youtu.be/ljO6YGKqIHk">Watch the Arduino IDE setup video →</a></strong></p></article><article class="guide"><span>NEW · SENSOR INTERFACING</span><h3>Connect sensors to Arduino Uno</h3><p>Choose analogue, digital and PWM pins, wire LDR, IR and HC-SR04 modules, and troubleshoot signal readings.</p><strong><a href="../arduino-uno-sensor-interfacing/">Read the Arduino Uno sensor interfacing guide →</a></strong></article><article class="guide"><span>STEP 2 · SENSORS</span><h3>Read a sensor output</h3><p>Check the module voltage, pin labels and whether its output is digital or analog. Keep the wiring simple while testing.</p><strong><a href="../hc-sr04-ultrasonic-sensor-guide/">Follow the HC-SR04 pinout, wiring and Arduino code guide →</a></strong><p><a href="../hc-sr04-wrong-readings-arduino/">Diagnose inaccurate or unstable HC-SR04 readings with Arduino</a></p><p><a href="../ir-sensor-vs-ultrasonic-sensor/">Compare IR and ultrasonic sensors before choosing a module</a><a href="../ir-vs-ultrasonic-obstacle-detection/">Test IR and ultrasonic obstacle detection on a moving robot</a></p></article><article class="guide"><span>STEP 3 · MOTOR CONTROL</span><h3>Drive a DC motor safely</h3><p>Use a motor driver such as the L293D rather than powering a motor directly from an Arduino I/O pin.</p><strong><a href="https://vayuyaan.com/blog/control-dc-motors-with-arduino-uno-r3-and-l293d/">Learn L293D motor control →</a></strong></article><article class="guide"><span>STEP 4 · MOTOR DRIVER GUIDE</span><h3>Understand motor drivers</h3><p>Compare L293D and L298N drivers, follow a wiring checklist, and learn direction and PWM speed control before building a robot.</p><strong><a href="../motor-drivers/">Read the Arduino motor driver guide →</a></strong></article><article class="guide"><span>STEP 5 · ROBOTICS</span><h3>Combine sensing and motion</h3><p>Test sensor readings and motor direction separately, then combine them into project logic.</p><strong><a href="https://vayuyaan.com/blog/line-follower-robot-using-arduino/">Build a line follower robot →</a></strong><p><strong><a href="../arduino-line-follower-ir-sensor-calibration/">Calibrate its IR sensors →</a></strong></p></article></div></section><section id="guides" class="section"><div class="section-top"><div><span class="kicker">TROUBLESHOOTING</span><h2>Quick checks when a project fails</h2></div><p>Before rewriting code, inspect the common causes below.</p></div><div class="guide-grid"><article class="guide"><h3>Board not detected</h3><p>Try a USB data cable, select the correct board and port in the IDE, and install the required driver if the board needs one.</p></article><article class="guide"><h3>Sensor gives strange readings</h3><p>Confirm VCC and GND, use the pinout for your exact module, check signal pin assignments and test with a short example sketch.</p></article><article class="guide"><h3>Motor does not turn</h3><p>Check the motor-driver supply, common ground, enable pin and wiring. Motors often need a separate power source sized for their current.</p></article></div></section><section class="section"><div class="section-top"><div><span class="kicker">KEEP BUILDING</span><h2>Try a complete beginner project</h2></div><p>Use what you have learned in a practical build, then return to the relevant guide when you need to debug a subsystem.</p></div><div class="guide-grid"><article class="guide"><span>PROJECT · AUTOMATION</span><h3>Smart Dustbin with Arduino</h3><p>Combine an ultrasonic sensor with a motorized mechanism. Test distance readings before adding movement.</p><strong><a href="https://vayuyaan.com/blog/smart-dustbin-using-arduino-and-ultrasonic-sensor/">Build the smart dustbin →</a></strong></article><article class="guide"><span>PROJECT · ROBOTICS</span><h3>Line-Follower Robot</h3><p>Learn how sensors and motor control work together to keep a robot on a track.</p><strong><a href="https://vayuyaan.com/blog/line-follower-robot-using-arduino/">Follow the robot tutorial →</a></strong></article><article class="guide"><span>PROJECT · LIGHT AUTOMATION</span><h3>Automatic Street Light with Arduino</h3><p>Build an LDR voltage-divider circuit, read ambient light on A0 and calibrate the switching threshold for a low-voltage LED model.</p><strong><a href="../arduino-ldr-automatic-street-light/">Follow the LDR street-light circuit and code →</a></strong></article><article class="guide"><span>REFERENCE · SENSORS</span><h3>IR Sensor Calibration</h3><p>Read digital and analog outputs, choose a threshold from real readings and troubleshoot line tracking.</p><strong><a href="../arduino-line-follower-ir-sensor-calibration/">Read the calibration guide →</a></strong></article></div></section><section class="cta"><div><span class="kicker">NEXT STEP</span><h2>Need Arduino components?</h2><p>Find boards, sensors, motor drivers and robotics parts at Vayuyaan.</p></div><div class="cta-actions"><a class="primary light" href="https://vayuyaan.com/shop/">Shop Arduino components ↗</a></div></section></main><footer class="site-footer">
   <div class="footer-about">
     <a class="footer-logo" href="../" aria-label="Vayuyaan home"><img src="../assets/vayuyaan-logo.png" alt="Vayuyaan — Let's fly together" width="394" height="109"></a>
     <p>Practical electronics, Arduino, ESP32 and robotics learning resources.</p>

diff --git a/sensors/index.html b/sensors/index.html
@@ -22,6 +22,10 @@
 
 
 
+
+
+
+
 <meta name="twitter:card" content="summary_large_image"><meta name="twitter:title" content="Sensor Guides: Ultrasonic, IR &amp; LDR Sensors | Vayuyaan"><meta name="twitter:description" content="Compare ultrasonic, IR and LDR sensors with practical Arduino guides, project ideas and troubleshooting tips."><meta name="twitter:image" content="https://vayuyaan13.github.io/vayuyaan/assets/social/sensors.jpg"><meta property="og:url" content="https://vayuyaan13.github.io/vayuyaan/sensors/"><link rel="stylesheet" href="../style.css?v=20261118-mobile2"><style>.sensor-visual{max-width:1160px;margin:0 auto;padding:0 28px 10px}.sensor-visual img,.sensor-roadmap img{display:block;width:100%;height:auto;border:1px solid #dfe6ec;border-radius:18px}.sensor-roadmap{margin:0 0 28px}.sensor-roadmap img{border-radius:14px}.sensor-tools{display:flex;flex-wrap:wrap;gap:10px;margin:0 0 24px}.sensor-tools a{display:inline-flex;padding:9px 13px;border:1px solid #d9e0e7;border-radius:999px;text-decoration:none;color:#26313a;font-size:.88rem;font-weight:700;background:#fff}.sensor-tools a:hover{border-color:#d2a500;background:#fff9e6}.sensor-tip{margin-top:24px;padding:20px 22px;border-left:4px solid #ffd23f;border-radius:0 10px 10px 0;background:#fff8df;line-height:1.7}.sensor-tip p{margin:6px 0 0}@media(max-width:600px){.sensor-visual{padding:0 18px 8px}.sensor-roadmap{margin-bottom:20px}}</style><script type="application/ld+json">
 {
   "@context": "https://schema.org",

diff --git a/index.html b/index.html
@@ -14,7 +14,11 @@
 <meta property="og:image:type" content="image/jpeg">
 <meta property="og:image:width" content="1200">
 <meta property="og:image:height" content="630">
-<meta property="og:image:alt" content="Vayuyaan Arduino project tutorials, ESP32 guides, sensor wiring and robotics learning hub">
+<meta property="og:image:alt" content="Arduino Projects &amp; Tutorials, ESP32 &amp; Robotics | Vayuyaan">
+
+
+
+
 
 
 

diff --git a/hc-sr04-wrong-readings-arduino/index.html b/hc-sr04-wrong-readings-arduino/index.html
@@ -17,7 +17,11 @@
 <meta property="og:image:type" content="image/jpeg">
 <meta property="og:image:width" content="1200">
 <meta property="og:image:height" content="630">
-<meta property="og:image:alt" content="Why Is Your HC-SR04 Ultrasonic Sensor Giving Incorrect Distance Readings? | Vayuyaan">
+<meta property="og:image:alt" content="HC-SR04 Wrong Readings: Arduino Troubleshooting Guide | Vayuyaan">
+
+
+
+
 
 
 

diff --git a/ldr-vs-photodiode/index.html b/ldr-vs-photodiode/index.html
@@ -30,6 +30,10 @@
 
 
 
+
+
+
+
 <meta property="og:url" content="https://vayuyaan13.github.io/vayuyaan/ldr-vs-photodiode/">
 <meta name="twitter:card" content="summary_large_image"><meta name="twitter:title" content="LDR vs Photodiode: Which Light Sensor Should You Choose?">
 <meta name="twitter:description" content="Compare sensor working, circuits, response speed and Arduino use with practical diagrams.">

diff --git a/ldr-sensor-working-principle/index.html b/ldr-sensor-working-principle/index.html
@@ -10,7 +10,11 @@
 <meta property="og:image:type" content="image/jpeg">
 <meta property="og:image:width" content="1200">
 <meta property="og:image:height" content="630">
-<meta property="og:image:alt" content="LDR Voltage Divider: Arduino Wiring & Calibration Guide | Vayuyaan">
+<meta property="og:image:alt" content="LDR Voltage Divider: Arduino Wiring &amp; Calibration Guide | Vayuyaan">
+
+
+
+
 
 
 

diff --git a/arduino-ldr-automatic-street-light/index.html b/arduino-ldr-automatic-street-light/index.html
@@ -10,7 +10,11 @@
 <meta property="og:image:type" content="image/jpeg">
 <meta property="og:image:width" content="1200">
 <meta property="og:image:height" content="630">
-<meta property="og:image:alt" content="Arduino LDR Automatic Street Light: Circuit & Code | Vayuyaan">
+<meta property="og:image:alt" content="Arduino LDR Automatic Street Light: Circuit &amp; Code | Vayuyaan">
+
+
+
+
 
 
 

diff --git a/ir-vs-ultrasonic-obstacle-detection/index.html b/ir-vs-ultrasonic-obstacle-detection/index.html
@@ -39,6 +39,10 @@
 
 
 
+
+
+
+
 <meta name="twitter:card" content="summary_large_image">
 <meta name="twitter:title" content="IR vs Ultrasonic Sensors for Robot Obstacle Detection | Vayuyaan">
 <meta name="twitter:description" content="Compare reflective IR and HC-SR04 sensors for Arduino robot obstacle detection. Test target angle, surface, repeatability and stopping distance.">

diff --git a/what-is-esp32/index.html b/what-is-esp32/index.html
@@ -28,6 +28,10 @@
 
 
 
+
+
+
+
 <meta name="twitter:card" content="summary_large_image">
 <meta name="twitter:title" content="What Is ESP32? Features, Uses &amp; Projects Guide | Vayuyaan">
 <meta name="twitter:description" content="Explore ESP32 features, real-world uses, ESP32 vs Arduino Uno, setup steps and wiring safety.">

diff --git a/arduino-line-follower-ir-sensor-calibration/index.html b/arduino-line-follower-ir-sensor-calibration/index.html
@@ -39,6 +39,10 @@
 
 
 
+
+
+
+
 <meta name="twitter:card" content="summary_large_image">
 <meta name="twitter:title" content="Calibrate IR Sensors for an Arduino Line Follower">
 <meta name="twitter:description" content="A practical guide to sensor readings, thresholds, sensor placement and line-tracking troubleshooting.">

diff --git a/ir-sensor-projects-arduino/index.html b/ir-sensor-projects-arduino/index.html
@@ -39,6 +39,10 @@
 
 
 
+
+
+
+
 <meta name="twitter:card" content="summary_large_image">
 <meta name="twitter:title" content="5 Arduino IR Sensor Projects for Beginners | Vayuyaan">
 <meta name="twitter:description" content="Five beginner-friendly Arduino IR sensor builds with wiring, testing and troubleshooting tips.">
